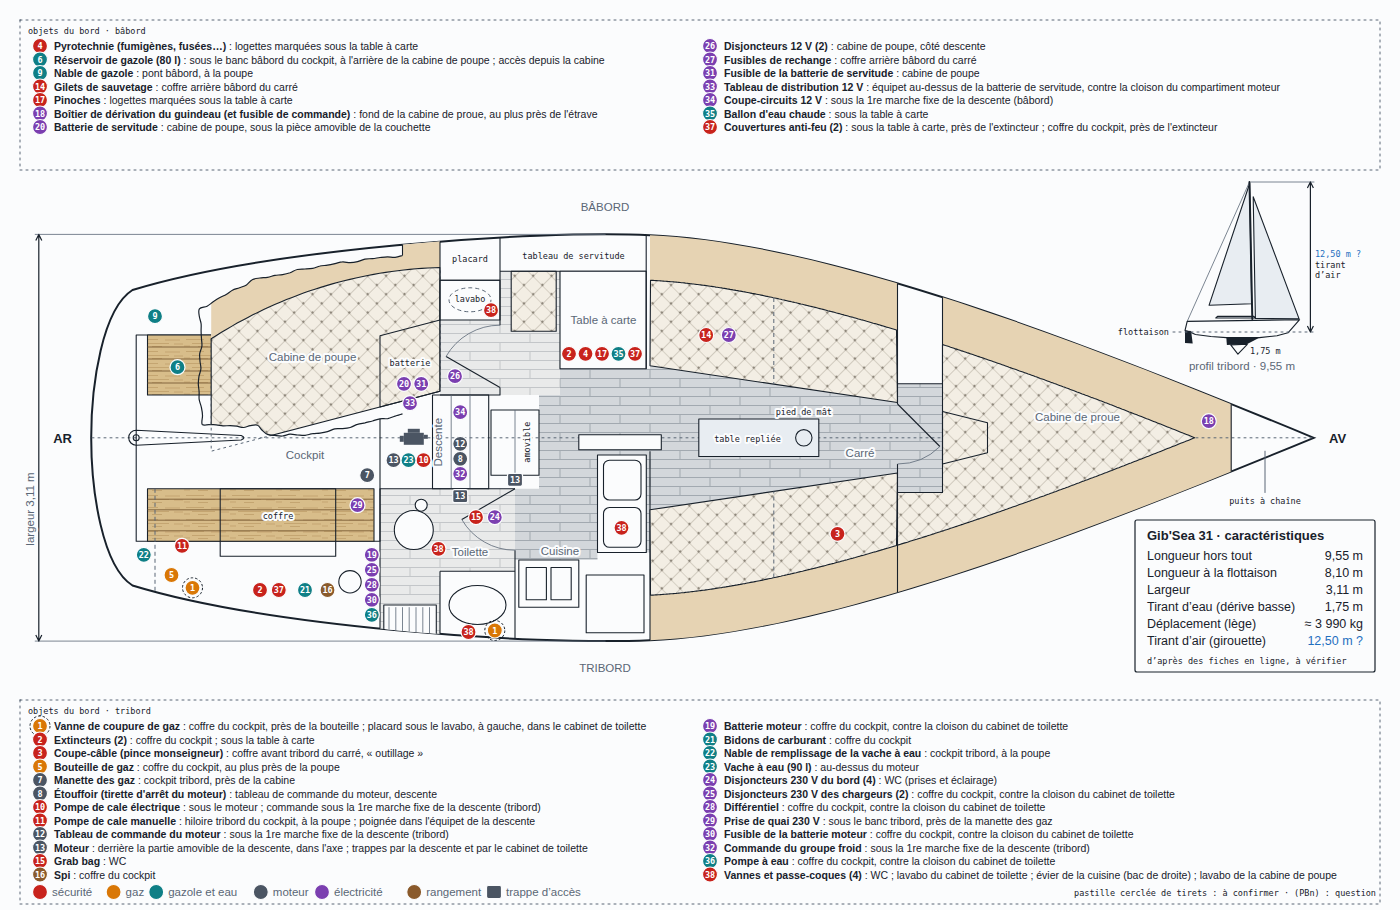
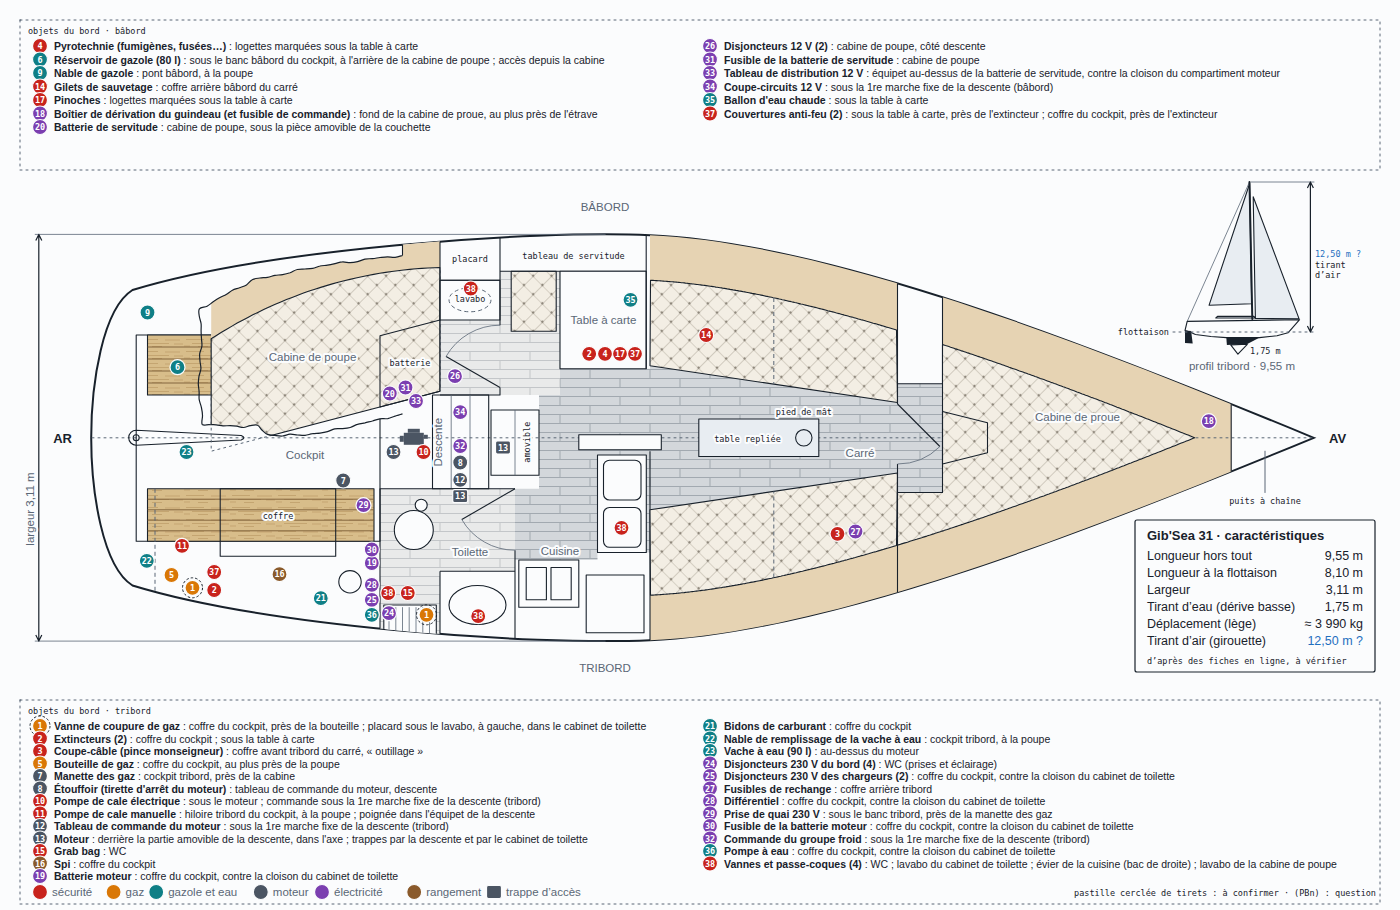
Plan de bord : positions des repères ajustées dans Inkscape, repère 27 à tribord
Positions reprises de la copie Inkscape ajustée par l'utilisateur
(32 repères). Fusibles de rechange : coffre arrière tribord, d'après la
feuille modifiée le 21/10. Interligne des légendes resserré quand un
cadre est plein (la légende tribord débordait sur la clé des couleurs).

diff --git a/brouillons/plan-de-bord/plan_bord.py b/brouillons/plan-de-bord/plan_bord.py
@@ -386,11 +386,12 @@ for o in OBJ:
     for x, y in o.get("trappes", []):
         el.append(trappe(o, OX + K * x, OY + K * y))
 leg = []
-for cote, y0, objs in (("bâbord", 50, [o for o in OBJ if o["positions"][0][1] < CY]),
-                       ("tribord", 730, [o for o in OBJ if o["positions"][0][1] >= CY])):
+for cote, y0, ymax, objs in (("bâbord", 50, 160, [o for o in OBJ if o["positions"][0][1] < CY]),
+                             ("tribord", 730, 880, [o for o in OBJ if o["positions"][0][1] >= CY])):
     rangs = (len(objs) + 1) // 2
+    pas = min(13.5, (ymax - y0) / max(rangs - 1, 1))   # interligne resserré si le cadre est plein
     for i, o in enumerate(objs):
-        X, Y = (40 if i < rangs else 710), y0 + 13.5 * (i % rangs)
+        X, Y = (40 if i < rangs else 710), y0 + pas * (i % rangs)
         txt = f'<tspan font-weight="600">{esc(o["nom"])}</tspan> : {esc(o["emplacement"])}'
         if o.get("question"):
             txt += f' <tspan class="tu">({o["question"]})</tspan>'

diff --git a/brouillons/plan-de-bord/README.md b/brouillons/plan-de-bord/README.md
@@ -10,6 +10,8 @@ Phases :
 
 4. Mise à jour du 20/10 : feuille relue (vanne de gaz : placard sous le lavabo, à gauche, dans le cabinet de toilette) ; cartouche des caractéristiques du bateau (`bateau:` dans `objets.yaml`), d'après des fiches en ligne ([sailboatdata](https://sailboatdata.com/sailboat/gibsea-31/), [SailingTheWeb](https://www.sailingtheweb.com/en/sailboat/gibert+marine+(gib+sea)/gib+sea+31), [Yacht Database](https://www.yachtdatabase.com/sv/review.jsp?id=Gib%27Sea+31)), donc `statut: estime` jusqu'à vérification sur les papiers du bord ; copie pour Inkscape ; profil tribord miniature au-dessus de l'étrave, redessiné d'après le plan de voilure du constructeur (`profil-constructeur.jpeg`, déposé par l'utilisateur le 20/10), mis à l'échelle sur la longueur hors tout et sur le tirant d'air ; cote de la largeur sur le plan, au maître-bau. Le plan de voilure montre un dériveur lesté (aileron de quille et dérive, cf. le puits de dérive) : 1,75 m est le tirant d'eau dérive basse. Tirant d'air : 12,50 m girouette comprise, donné par l'utilisateur le 20/10, à faire vérifier par Julie (PB12 reste ouverte jusque-là).
 
+5. Mise à jour du 21/10 : positions des repères reprises de la copie Inkscape ajustée par l'utilisateur (32 repères déplacés) ; repère 27, fusibles de rechange : « coffre arrière tribord » d'après la feuille modifiée le 21/10. Interligne des légendes resserré quand un cadre est plein.
+
 Questions de la phase 2 : PB1 à PB11, toutes répondues le 19/10. PB12 (20/10) : tirant d'air ? Aucune fiche en ligne ne le donne ; 12,50 m girouette comprise d'après l'utilisateur, à faire vérifier par Julie. Restent à faire : vérifier les emplacements « à confirmer avec Julie » (vanne de gaz), puis reporter les objets dans le relevé.
 
 `python brouillons/plan-de-bord/plan_bord.py` régénère le SVG et sa copie `folio-6-plan-de-bord-inkscape.svg` : mêmes dessins, couleurs du thème clair écrites en dur (Inkscape et la plupart des visionneuses ne lisent pas les variables CSS), fond dans un calque verrouillé, pastilles et trappes du plan dans le calque « Pastilles à placer », identifiées `pN-i` / `tN-i` (objet N, i-ème emplacement, en partant de 0). Pour placer les repères : déplacer les pastilles dans cette copie, sans toucher au reste, puis reporter leurs positions dans `objets.yaml` (X = 80 + 0,75 · x ; Y = 196,25 + 0,75 · y) ; ne pas retoucher les SVG, réécrits à chaque génération. Le script il reprend le bloc `<style>` du folio 0 et y ajoute les classes `amg`, `amg-f`, `amg-b`, `amg-d`, `amg-l`, `arr`, `halo`, `sol-b`, `sol-h`, `mat`, `teck`, `teck-j`, `vaig`, `vaig-f`, `obj`, `conf`, `tr`, `leg`, `ico-mot` et les classes de catégorie, les variables de couleur des textures et leurs motifs (`<defs>`), à reporter dans tous les folios et dans `page.py` à l'intégration.
